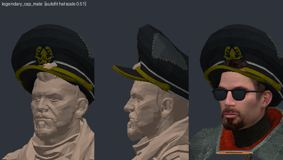
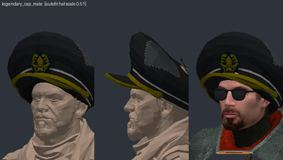
[create] hats: review round 3 applied (26 refitted), 76 of 103 approved

diff --git a/create/hats/HATS.md b/create/hats/HATS.md
@@ -11,13 +11,13 @@ How they are placed: [docs/creation/gmod-hats.md](../../docs/creation/gmod-hats.
 | ![](img/sombrero.jpg) | `sombrero` Sombrero | hat | Pointshop lua | compiled | [Pointshop Custom Content](https://steamcommunity.com/sharedfiles/filedetails/?id=630671996) by nerzlakai96 |
 | ![](img/afro_ps.jpg) | `afro_ps` Afro | hat | Pointshop lua; offset [0, 0, 1.5] | compiled | [PointShop Hats](https://steamcommunity.com/sharedfiles/filedetails/?id=615626726) by Lucifer |
 | ![](img/santa_ps.jpg) | `santa_ps` Santa Hat | hat | Pointshop lua; offset [0.0, 0, 0.0], rotate [0, 90, 0] | compiled | [Rebels of Gaming Pointshop Hats](https://steamcommunity.com/sharedfiles/filedetails/?id=1083257553) by Xatos |
-| ![](img/cowboy_hat.jpg) | `cowboy_hat` Cowboy Hat | hat | autofit hat (scale 0.75); offset [0.0, 0, -2.0] | compiled | [GMod Tower: Accessories Pack](https://steamcommunity.com/sharedfiles/filedetails/?id=148215278) by MacDGuy |
+| ![](img/cowboy_hat.jpg) | `cowboy_hat` Cowboy Hat | hat | autofit hat (scale 0.75); offset [1.0, 0, -1.0] | compiled | [GMod Tower: Accessories Pack](https://steamcommunity.com/sharedfiles/filedetails/?id=148215278) by MacDGuy |
 | ![](img/hokage.jpg) | `hokage` Hokage Hat | hat | autofit hat (scale 0.91); offset [0.0, 0, -5.5], scale 0.9 | compiled | [Hokage Hats](https://steamcommunity.com/sharedfiles/filedetails/?id=301607701) by Akumetsu |
 | ![](img/mask_arnold.jpg) | `mask_arnold` Arnold Mask | mask | autofit mask (scale 1.03) | compiled | [Animal masks from PAYDAY 2](https://steamcommunity.com/sharedfiles/filedetails/?id=282958377) by Snowz |
-| ![](img/beanie.jpg) | `beanie` Beanie | hat | autofit hat (scale 0.60); offset [1.0, 0, -3.5], scale 0.77 | compiled | [Splatoon Full Hats Pack](https://steamcommunity.com/sharedfiles/filedetails/?id=889681148) by FissionMetroid101 |
+| ![](img/beanie.jpg) | `beanie` Beanie | hat | autofit hat (scale 0.60); offset [0.5, 0, -3.5], scale 0.77 | compiled | [Splatoon Full Hats Pack](https://steamcommunity.com/sharedfiles/filedetails/?id=889681148) by FissionMetroid101 |
 | ![](img/catears.jpg) | `catears` Cat Ears | hat | Pointshop lua | compiled | [Pointshop Custom Content](https://steamcommunity.com/sharedfiles/filedetails/?id=630671996) by nerzlakai96 |
 | ![](img/americahat.jpg) | `americahat` Murica | hat | Pointshop lua | compiled | [Rebels of Gaming Pointshop Hats](https://steamcommunity.com/sharedfiles/filedetails/?id=1083257553) by Xatos |
-| ![](img/astronauthelmet.jpg) | `astronauthelmet` Astronaut Helmet | mask | Pointshop lua; offset [2.0, 0, -1.34], scale 0.75 | compiled | [Rebels of Gaming Pointshop Hats](https://steamcommunity.com/sharedfiles/filedetails/?id=1083257553) by Xatos |
+| ![](img/astronauthelmet.jpg) | `astronauthelmet` Astronaut Helmet | mask | Pointshop lua; offset [2.0, 0, -3.34], scale 0.75 | compiled | [Rebels of Gaming Pointshop Hats](https://steamcommunity.com/sharedfiles/filedetails/?id=1083257553) by Xatos |
 | ![](img/bunnyears.jpg) | `bunnyears` wierd ears | hat | Pointshop lua | compiled | [Rebels of Gaming Pointshop Hats](https://steamcommunity.com/sharedfiles/filedetails/?id=1083257553) by Xatos |
 | ![](img/captainshat.jpg) | `captainshat` Captainshat | hat | autofit hat (scale 1.32); offset [0.0, 0, 0.5] | compiled | [Rebels of Gaming Pointshop Hats](https://steamcommunity.com/sharedfiles/filedetails/?id=1083257553) by Xatos |
 | ![](img/ghelm.jpg) | `ghelm` Daft Punk Hat | hat | Pointshop lua; offset [-2.0, 0, 0.0] | compiled | [Rebels of Gaming Pointshop Hats](https://steamcommunity.com/sharedfiles/filedetails/?id=1083257553) by Xatos |
@@ -26,13 +26,13 @@ How they are placed: [docs/creation/gmod-hats.md](../../docs/creation/gmod-hats.
 | ![](img/afro.jpg) | `afro` Afro 2 | hat | Pointshop lua; offset [-1.5, 0, 4.5] | compiled | [Rebels of Gaming Pointshop Hats](https://steamcommunity.com/sharedfiles/filedetails/?id=1083257553) by Xatos |
 | ![](img/kfcbucket.jpg) | `kfcbucket` KFC Bucket | mask | Pointshop lua | compiled | [Rebels of Gaming Pointshop Hats](https://steamcommunity.com/sharedfiles/filedetails/?id=1083257553) by Xatos |
 | ![](img/klienerglasses.jpg) | `klienerglasses` Kleiner Glasses | glasses | Pointshop lua | compiled | [Rebels of Gaming Pointshop Hats](https://steamcommunity.com/sharedfiles/filedetails/?id=1083257553) by Xatos |
-| ![](img/linkhat.jpg) | `linkhat` Link Hat | hat | Pointshop lua; offset [1.0, 0, -1.0] | compiled | [Rebels of Gaming Pointshop Hats](https://steamcommunity.com/sharedfiles/filedetails/?id=1083257553) by Xatos |
+| ![](img/linkhat.jpg) | `linkhat` Link Hat | hat | Pointshop lua; offset [2.0, 0, 0.5] | compiled | [Rebels of Gaming Pointshop Hats](https://steamcommunity.com/sharedfiles/filedetails/?id=1083257553) by Xatos |
 | ![](img/majorasmask.jpg) | `majorasmask` Majoras Mask | mask | Pointshop lua; offset [1.0, 0, 0.0] | compiled | [Rebels of Gaming Pointshop Hats](https://steamcommunity.com/sharedfiles/filedetails/?id=1083257553) by Xatos |
 | ![](img/midnahat.jpg) | `midnahat` Midna Hat | hat | Pointshop lua | compiled | [Rebels of Gaming Pointshop Hats](https://steamcommunity.com/sharedfiles/filedetails/?id=1083257553) by Xatos |
-| ![](img/seusshat.jpg) | `seusshat` Seuss Hat | hat | Pointshop lua; offset [1.0, 0, -2.0] | compiled | [Rebels of Gaming Pointshop Hats](https://steamcommunity.com/sharedfiles/filedetails/?id=1083257553) by Xatos |
+| ![](img/seusshat.jpg) | `seusshat` Seuss Hat | hat | Pointshop lua; offset [2.0, 0, -2.0] | compiled | [Rebels of Gaming Pointshop Hats](https://steamcommunity.com/sharedfiles/filedetails/?id=1083257553) by Xatos |
 | ![](img/starglasses.jpg) | `starglasses` Star Glasses | glasses | Pointshop lua | compiled | [Rebels of Gaming Pointshop Hats](https://steamcommunity.com/sharedfiles/filedetails/?id=1083257553) by Xatos |
-| ![](img/toetohat.jpg) | `toetohat` Toeto Hat | hat | Pointshop lua; offset [0.5, 0, -1.0] | compiled | [Rebels of Gaming Pointshop Hats](https://steamcommunity.com/sharedfiles/filedetails/?id=1083257553) by Xatos |
-| ![](img/tophat.jpg) | `tophat` Tophat | hat | Pointshop lua; offset [2.0, 0, -1.0] | compiled | [Rebels of Gaming Pointshop Hats](https://steamcommunity.com/sharedfiles/filedetails/?id=1083257553) by Xatos |
+| ![](img/toetohat.jpg) | `toetohat` Toeto Hat | hat | Pointshop lua; offset [1.0, 0, 0.0] | compiled | [Rebels of Gaming Pointshop Hats](https://steamcommunity.com/sharedfiles/filedetails/?id=1083257553) by Xatos |
+| ![](img/tophat.jpg) | `tophat` Tophat | hat | Pointshop lua; offset [1.0, 0, -2.0] | compiled | [Rebels of Gaming Pointshop Hats](https://steamcommunity.com/sharedfiles/filedetails/?id=1083257553) by Xatos |
 | ![](img/witchhat.jpg) | `witchhat` Witch Hat | hat | Pointshop lua; offset [1.0, 0, 0.0] | compiled | [Rebels of Gaming Pointshop Hats](https://steamcommunity.com/sharedfiles/filedetails/?id=1083257553) by Xatos |
 | ![](img/highhat.jpg) | `highhat` tophat | hat | Pointshop lua | compiled | [Rebels of Gaming Pointshop Hats](https://steamcommunity.com/sharedfiles/filedetails/?id=1083257553) by Xatos |
 | ![](img/horsiemask.jpg) | `horsiemask` HorseMask | mask | Pointshop lua | compiled | [Rebels of Gaming Pointshop Hats](https://steamcommunity.com/sharedfiles/filedetails/?id=1083257553) by Xatos |
@@ -43,7 +43,7 @@ How they are placed: [docs/creation/gmod-hats.md](../../docs/creation/gmod-hats.
 | ![](img/partyhat.jpg) | `partyhat` Partyhat | hat | autofit hat (scale 1.58); scale 0.55 | compiled | [Rebels of Gaming Pointshop Hats](https://steamcommunity.com/sharedfiles/filedetails/?id=1083257553) by Xatos |
 | ![](img/partyhat2.jpg) | `partyhat2` partyhat | hat | Pointshop lua | compiled | [Rebels of Gaming Pointshop Hats](https://steamcommunity.com/sharedfiles/filedetails/?id=1083257553) by Xatos |
 | ![](img/pokeball.jpg) | `pokeball` pokeball | hat | Pointshop lua; scale 0.8 | compiled | [Rebels of Gaming Pointshop Hats](https://steamcommunity.com/sharedfiles/filedetails/?id=1083257553) by Xatos |
-| ![](img/policehat.jpg) | `policehat` policehat | hat | Pointshop lua; offset [0.0, 0, 1.0] | compiled | [Rebels of Gaming Pointshop Hats](https://steamcommunity.com/sharedfiles/filedetails/?id=1083257553) by Xatos |
+| ![](img/policehat.jpg) | `policehat` policehat | hat | Pointshop lua; offset [0.5, 0, 1.0] | compiled | [Rebels of Gaming Pointshop Hats](https://steamcommunity.com/sharedfiles/filedetails/?id=1083257553) by Xatos |
 | ![](img/pd2_mask_chains.jpg) | `pd2_mask_chains` Paydaymask | mask | Pointshop lua; offset [0.0, 0, 2.0] | compiled | [Rebels of Gaming Pointshop Hats](https://steamcommunity.com/sharedfiles/filedetails/?id=1083257553) by Xatos |
 | ![](img/pd2_mask_dallas.jpg) | `pd2_mask_dallas` paydaymask2 | mask | Pointshop lua; offset [0.0, 0, 2.0] | compiled | [Rebels of Gaming Pointshop Hats](https://steamcommunity.com/sharedfiles/filedetails/?id=1083257553) by Xatos |
 | ![](img/pd2_mask_hoxton.jpg) | `pd2_mask_hoxton` paydaymask2 | mask | Pointshop lua; offset [0.0, 0, 2.0] | compiled | [Rebels of Gaming Pointshop Hats](https://steamcommunity.com/sharedfiles/filedetails/?id=1083257553) by Xatos |
@@ -61,7 +61,7 @@ How they are placed: [docs/creation/gmod-hats.md](../../docs/creation/gmod-hats.
 | ![](img/frog_hat.jpg) | `frog_hat` Frog Hat | hat | autofit hat (scale 0.80); offset [0.0, 0, -1.5], scale 0.9 | compiled | [GMod Tower: Accessories Pack](https://steamcommunity.com/sharedfiles/filedetails/?id=148215278) by MacDGuy |
 | ![](img/maid_headband.jpg) | `maid_headband` Maid Headband | hat | autofit hat (scale 0.98); offset [0, 0, -1] | compiled | [GMod Tower: Accessories Pack](https://steamcommunity.com/sharedfiles/filedetails/?id=148215278) by MacDGuy |
 | ![](img/pumpkin.jpg) | `pumpkin` Pumpkin | mask | autofit mask (scale 0.71); offset [2.0, 0, 1.0], scale 1.56 | compiled | [GMod Tower: Accessories Pack](https://steamcommunity.com/sharedfiles/filedetails/?id=148215278) by MacDGuy |
-| ![](img/strawhat.jpg) | `strawhat` Strawhat | hat | autofit hat (scale 0.75); offset [1.0, 0, 1.0], scale 1.2 | compiled | [GMod Tower: Accessories Pack](https://steamcommunity.com/sharedfiles/filedetails/?id=148215278) by MacDGuy |
+| ![](img/strawhat.jpg) | `strawhat` Strawhat | hat | autofit hat (scale 0.75); offset [0.0, 0, 1.0], scale 1.2 | compiled | [GMod Tower: Accessories Pack](https://steamcommunity.com/sharedfiles/filedetails/?id=148215278) by MacDGuy |
 | ![](img/sunhat.jpg) | `sunhat` Sunhat | hat | autofit hat (scale 0.53) | compiled | [GMod Tower: Accessories Pack](https://steamcommunity.com/sharedfiles/filedetails/?id=148215278) by MacDGuy |
 | ![](img/tophat02.jpg) | `tophat02` Tophat02 | hat | autofit hat (scale 1.43) | compiled | [GMod Tower: Accessories Pack](https://steamcommunity.com/sharedfiles/filedetails/?id=148215278) by MacDGuy |
 | ![](img/androssmask.jpg) | `androssmask` Androssmask | mask | autofit mask (scale 0.68); offset [3.0, 0, 0.0] | compiled | [GMod Tower: Accessories Pack](https://steamcommunity.com/sharedfiles/filedetails/?id=148215278) by MacDGuy |
@@ -75,34 +75,34 @@ How they are placed: [docs/creation/gmod-hats.md](../../docs/creation/gmod-hats.
 | ![](img/turkey.jpg) | `turkey` Turkey | hat | autofit hat (scale 1.07); offset [2.0, 0, 4.0] | compiled | [GMod Tower: Accessories Pack](https://steamcommunity.com/sharedfiles/filedetails/?id=148215278) by MacDGuy |
 | ![](img/billyhatcherhat.jpg) | `billyhatcherhat` Billyhatcherhat | hat | autofit hat (scale 0.85); offset [-9.0, 0, -3.0] | compiled | [GMod Tower: Accessories Pack](https://steamcommunity.com/sharedfiles/filedetails/?id=148215278) by MacDGuy |
 | ![](img/blackmage_hat.jpg) | `blackmage_hat` Blackmage Hat | hat | autofit hat (scale 0.40) | compiled | [GMod Tower: Accessories Pack](https://steamcommunity.com/sharedfiles/filedetails/?id=148215278) by MacDGuy |
-| ![](img/cuboneskull.jpg) | `cuboneskull` Cuboneskull | mask | autofit mask (scale 0.84); offset [6.0, 0, 1.0], rotate [30, 0, 0], scale 1.1 | compiled | [GMod Tower: Accessories Pack](https://steamcommunity.com/sharedfiles/filedetails/?id=148215278) by MacDGuy |
-| ![](img/generalpepperhat.jpg) | `generalpepperhat` Generalpepperhat | hat | autofit hat (scale 0.83); offset [2.0, 0, 0.0] | compiled | [GMod Tower: Accessories Pack](https://steamcommunity.com/sharedfiles/filedetails/?id=148215278) by MacDGuy |
-| ![](img/keatonmask.jpg) | `keatonmask` Keatonmask | mask | autofit mask (scale 0.60); offset [3.0, 0, 1.0], scale 1.2 | compiled | [GMod Tower: Accessories Pack](https://steamcommunity.com/sharedfiles/filedetails/?id=148215278) by MacDGuy |
+| ![](img/cuboneskull.jpg) | `cuboneskull` Cuboneskull | mask | autofit mask (scale 0.84); offset [4.0, 0, 1.0], rotate [30, 0, 0], scale 1.1 | compiled | [GMod Tower: Accessories Pack](https://steamcommunity.com/sharedfiles/filedetails/?id=148215278) by MacDGuy |
+| ![](img/generalpepperhat.jpg) | `generalpepperhat` Generalpepperhat | hat | autofit hat (scale 0.83); offset [3.0, 0, 0.0] | compiled | [GMod Tower: Accessories Pack](https://steamcommunity.com/sharedfiles/filedetails/?id=148215278) by MacDGuy |
+| ![](img/keatonmask.jpg) | `keatonmask` Keatonmask | mask | autofit mask (scale 0.60); offset [2.0, 0, 2.0], scale 1.2 | compiled | [GMod Tower: Accessories Pack](https://steamcommunity.com/sharedfiles/filedetails/?id=148215278) by MacDGuy |
 | ![](img/klonoahat.jpg) | `klonoahat` Klonoahat | hat | autofit hat (scale 0.89); offset [2.0, 0, 0.0] | compiled | [GMod Tower: Accessories Pack](https://steamcommunity.com/sharedfiles/filedetails/?id=148215278) by MacDGuy |
-| ![](img/luigihat.jpg) | `luigihat` Luigihat | hat | autofit hat (scale 0.82); offset [1.0, 0, -2.0] | compiled | [GMod Tower: Accessories Pack](https://steamcommunity.com/sharedfiles/filedetails/?id=148215278) by MacDGuy |
-| ![](img/makarmask.jpg) | `makarmask` Makarmask | mask | autofit mask (scale 1.80); offset [4.0, 0, 2.0], rotate [15, 0, 0], scale 1.5 | compiled | [GMod Tower: Accessories Pack](https://steamcommunity.com/sharedfiles/filedetails/?id=148215278) by MacDGuy |
-| ![](img/mariohat_2.jpg) | `mariohat_2` Mariohat | hat | autofit hat (scale 0.96); offset [2.0, 0, -1.0] | compiled | [GMod Tower: Accessories Pack](https://steamcommunity.com/sharedfiles/filedetails/?id=148215278) by MacDGuy |
+| ![](img/luigihat.jpg) | `luigihat` Luigihat | hat | autofit hat (scale 0.82); offset [1.5, 0, -2.0] | compiled | [GMod Tower: Accessories Pack](https://steamcommunity.com/sharedfiles/filedetails/?id=148215278) by MacDGuy |
+| ![](img/makarmask.jpg) | `makarmask` Makarmask | mask | autofit mask (scale 1.80); offset [1.0, 0, 2.0], rotate [15, 0, 0], scale 1.5 | compiled | [GMod Tower: Accessories Pack](https://steamcommunity.com/sharedfiles/filedetails/?id=148215278) by MacDGuy |
+| ![](img/mariohat_2.jpg) | `mariohat_2` Mariohat | hat | autofit hat (scale 0.96); offset [0.5, 0, -1.0] | compiled | [GMod Tower: Accessories Pack](https://steamcommunity.com/sharedfiles/filedetails/?id=148215278) by MacDGuy |
 | ![](img/peachcrown.jpg) | `peachcrown` Peachcrown | hat | autofit hat (scale 1.54); scale 0.75 | compiled | [GMod Tower: Accessories Pack](https://steamcommunity.com/sharedfiles/filedetails/?id=148215278) by MacDGuy |
 | ![](img/redshat.jpg) | `redshat` Redshat | hat | autofit hat (scale 0.83) | compiled | [GMod Tower: Accessories Pack](https://steamcommunity.com/sharedfiles/filedetails/?id=148215278) by MacDGuy |
 | ![](img/toadhat.jpg) | `toadhat` Toadhat | hat | autofit hat (scale 0.45); offset [0.0, 0, -3.0] | compiled | [GMod Tower: Accessories Pack](https://steamcommunity.com/sharedfiles/filedetails/?id=148215278) by MacDGuy |
-| ![](img/viewtifuljoehelmet.jpg) | `viewtifuljoehelmet` Viewtifuljoehelmet | mask | autofit mask (scale 0.67); offset [0.0, 0, 5.0] | compiled | [GMod Tower: Accessories Pack](https://steamcommunity.com/sharedfiles/filedetails/?id=148215278) by MacDGuy |
-| ![](img/bandanas_female.jpg) | `bandanas_female` Bandanas Female | hat | autofit hat (scale 0.49); offset [0.0, 0, -8.0], scale 0.8 | compiled | [Splatoon Full Hats Pack](https://steamcommunity.com/sharedfiles/filedetails/?id=889681148) by FissionMetroid101 |
+| ![](img/viewtifuljoehelmet.jpg) | `viewtifuljoehelmet` Viewtifuljoehelmet | mask | autofit mask (scale 0.67); offset [0.0, 0, 3.0] | compiled | [GMod Tower: Accessories Pack](https://steamcommunity.com/sharedfiles/filedetails/?id=148215278) by MacDGuy |
+| ![](img/bandanas_female.jpg) | `bandanas_female` Bandanas Female | hat | autofit hat (scale 0.49); offset [-1.0, 0, -9.0], scale 0.8 | compiled | [Splatoon Full Hats Pack](https://steamcommunity.com/sharedfiles/filedetails/?id=889681148) by FissionMetroid101 |
 | ![](img/bandanas_male.jpg) | `bandanas_male` Bandanas Male | hat | autofit hat (scale 0.42); offset [0.0, 0, -8.0], scale 0.8 | compiled | [Splatoon Full Hats Pack](https://steamcommunity.com/sharedfiles/filedetails/?id=889681148) by FissionMetroid101 |
-| ![](img/legendary_cap_female.jpg) | `legendary_cap_female` Legendary Cap Female | hat | autofit hat (scale 0.59); offset [2.0, 0, -4.0] | compiled | [Splatoon Full Hats Pack](https://steamcommunity.com/sharedfiles/filedetails/?id=889681148) by FissionMetroid101 |
-| ![](img/legendary_cap_male.jpg) | `legendary_cap_male` Legendary Cap Male | hat | autofit hat (scale 0.51); offset [1.0, 0, -2.0] | compiled | [Splatoon Full Hats Pack](https://steamcommunity.com/sharedfiles/filedetails/?id=889681148) by FissionMetroid101 |
+| ![](img/legendary_cap_female.jpg) | `legendary_cap_female` Legendary Cap Female | hat | autofit hat (scale 0.59); offset [3.0, 0, -4.0] | compiled | [Splatoon Full Hats Pack](https://steamcommunity.com/sharedfiles/filedetails/?id=889681148) by FissionMetroid101 |
+| ![](img/legendary_cap_male.jpg) | `legendary_cap_male` Legendary Cap Male | hat | autofit hat (scale 0.51); offset [2.0, 0, -3.0] | compiled | [Splatoon Full Hats Pack](https://steamcommunity.com/sharedfiles/filedetails/?id=889681148) by FissionMetroid101 |
 | ![](img/octoling_goggles.jpg) | `octoling_goggles` Octoling Goggles | glasses | autofit glasses (scale 0.35) | compiled | [Splatoon Full Hats Pack](https://steamcommunity.com/sharedfiles/filedetails/?id=889681148) by FissionMetroid101 |
-| ![](img/bamboo_hat.jpg) | `bamboo_hat` Bamboo Hat | hat | autofit hat (scale 0.99); offset [1.0, 0, -16.0] | compiled | [Splatoon Full Hats Pack](https://steamcommunity.com/sharedfiles/filedetails/?id=889681148) by FissionMetroid101 |
+| ![](img/bamboo_hat.jpg) | `bamboo_hat` Bamboo Hat | hat | autofit hat (scale 0.99); offset [1.0, 0, -16.0], scale 0.8 | compiled | [Splatoon Full Hats Pack](https://steamcommunity.com/sharedfiles/filedetails/?id=889681148) by FissionMetroid101 |
 | ![](img/blowfish_bell_hat.jpg) | `blowfish_bell_hat` Blowfish Bell Hat | hat | autofit hat (scale 0.52); offset [0.0, 0, -2.0] | compiled | [Splatoon Full Hats Pack](https://steamcommunity.com/sharedfiles/filedetails/?id=889681148) by FissionMetroid101 |
-| ![](img/straw_boaters_female.jpg) | `straw_boaters_female` Straw Boaters Female | hat | autofit hat (scale 0.47); offset [0.0, 0, -1.0] | compiled | [Splatoon Full Hats Pack](https://steamcommunity.com/sharedfiles/filedetails/?id=889681148) by FissionMetroid101 |
+| ![](img/straw_boaters_female.jpg) | `straw_boaters_female` Straw Boaters Female | hat | autofit hat (scale 0.47); offset [0.0, 0, 0.0] | compiled | [Splatoon Full Hats Pack](https://steamcommunity.com/sharedfiles/filedetails/?id=889681148) by FissionMetroid101 |
 | ![](img/straw_boaters_male.jpg) | `straw_boaters_male` Straw Boaters Male | hat | autofit hat (scale 0.53); offset [0.0, 0, -1.0] | compiled | [Splatoon Full Hats Pack](https://steamcommunity.com/sharedfiles/filedetails/?id=889681148) by FissionMetroid101 |
-| ![](img/treasure_hunter.jpg) | `treasure_hunter` Treasure Hunter | hat | autofit hat (scale 0.45); offset [1.0, 0, -1.0] | compiled | [Splatoon Full Hats Pack](https://steamcommunity.com/sharedfiles/filedetails/?id=889681148) by FissionMetroid101 |
+| ![](img/treasure_hunter.jpg) | `treasure_hunter` Treasure Hunter | hat | autofit hat (scale 0.45); offset [0.0, 0, -1.0] | compiled | [Splatoon Full Hats Pack](https://steamcommunity.com/sharedfiles/filedetails/?id=889681148) by FissionMetroid101 |
 | ![](img/skate_helmets.jpg) | `skate_helmets` Skate Helmets | mask | autofit mask (scale 0.46) | compiled | [Splatoon Full Hats Pack](https://steamcommunity.com/sharedfiles/filedetails/?id=889681148) by FissionMetroid101 |
-| ![](img/warrior_headdress.jpg) | `warrior_headdress` Warrior Headdress | hat | autofit hat (scale 0.37); offset [0.0, 0, -7.5] | compiled | [Splatoon Full Hats Pack](https://steamcommunity.com/sharedfiles/filedetails/?id=889681148) by FissionMetroid101 |
-| ![](img/jojo_hat_black.jpg) | `jojo_hat_black` Jojo Hat Black | hat | autofit hat (scale 1.70); offset [-3.0, 0, -10.0], scale 0.8 | compiled | [JoJo Hats](https://steamcommunity.com/sharedfiles/filedetails/?id=1430106952) by Goonya |
-| ![](img/jojo_hat_white.jpg) | `jojo_hat_white` Jojo Hat White | hat | autofit hat (scale 1.22); offset [-1.0, 0, -8.0] | compiled | [JoJo Hats](https://steamcommunity.com/sharedfiles/filedetails/?id=1430106952) by Goonya |
+| ![](img/warrior_headdress.jpg) | `warrior_headdress` Warrior Headdress | hat | autofit hat (scale 0.37); offset [1.5, 0, -7.5] | compiled | [Splatoon Full Hats Pack](https://steamcommunity.com/sharedfiles/filedetails/?id=889681148) by FissionMetroid101 |
+| ![](img/jojo_hat_black.jpg) | `jojo_hat_black` Jojo Hat Black | hat | autofit hat (scale 1.70); offset [-3.0, 0, -10.0], scale 0.64 | compiled | [JoJo Hats](https://steamcommunity.com/sharedfiles/filedetails/?id=1430106952) by Goonya |
+| ![](img/jojo_hat_white.jpg) | `jojo_hat_white` Jojo Hat White | hat | autofit hat (scale 1.22); offset [1.0, 0, -6.0] | compiled | [JoJo Hats](https://steamcommunity.com/sharedfiles/filedetails/?id=1430106952) by Goonya |
 | ![](img/maskjeanclaude.jpg) | `maskjeanclaude` Maskjeanclaude | mask | autofit mask (scale 0.91); offset [3.0, 0, 0.0] | compiled | [Animal masks from PAYDAY 2](https://steamcommunity.com/sharedfiles/filedetails/?id=282958377) by Snowz |
 | ![](img/maskmark.jpg) | `maskmark` Maskmark | mask | autofit mask (scale 0.99); offset [3.0, 0, -1.0] | compiled | [Animal masks from PAYDAY 2](https://steamcommunity.com/sharedfiles/filedetails/?id=282958377) by Snowz |
-| ![](img/maskmonkeybusiness.jpg) | `maskmonkeybusiness` Maskmonkeybusiness | mask | autofit mask (scale 1.18); offset [4.0, 0, -2.0] | compiled | [Animal masks from PAYDAY 2](https://steamcommunity.com/sharedfiles/filedetails/?id=282958377) by Snowz |
+| ![](img/maskmonkeybusiness.jpg) | `maskmonkeybusiness` Maskmonkeybusiness | mask | autofit mask (scale 1.18); offset [2.5, 0, -2.0] | compiled | [Animal masks from PAYDAY 2](https://steamcommunity.com/sharedfiles/filedetails/?id=282958377) by Snowz |
 | ![](img/maskthehog.jpg) | `maskthehog` Maskthehog | mask | autofit mask (scale 1.18) | compiled | [Animal masks from PAYDAY 2](https://steamcommunity.com/sharedfiles/filedetails/?id=282958377) by Snowz |
 | ![](img/kazekage.jpg) | `kazekage` Kazekage | hat | autofit hat (scale 0.91); offset [0, 0, -5], scale 0.9 | compiled | [Hokage Hats](https://steamcommunity.com/sharedfiles/filedetails/?id=301607701) by Akumetsu |
 | ![](img/mizukage.jpg) | `mizukage` Mizukage | hat | autofit hat (scale 0.91); offset [0, 0, -5], scale 0.9 | compiled | [Hokage Hats](https://steamcommunity.com/sharedfiles/filedetails/?id=301607701) by Akumetsu |
